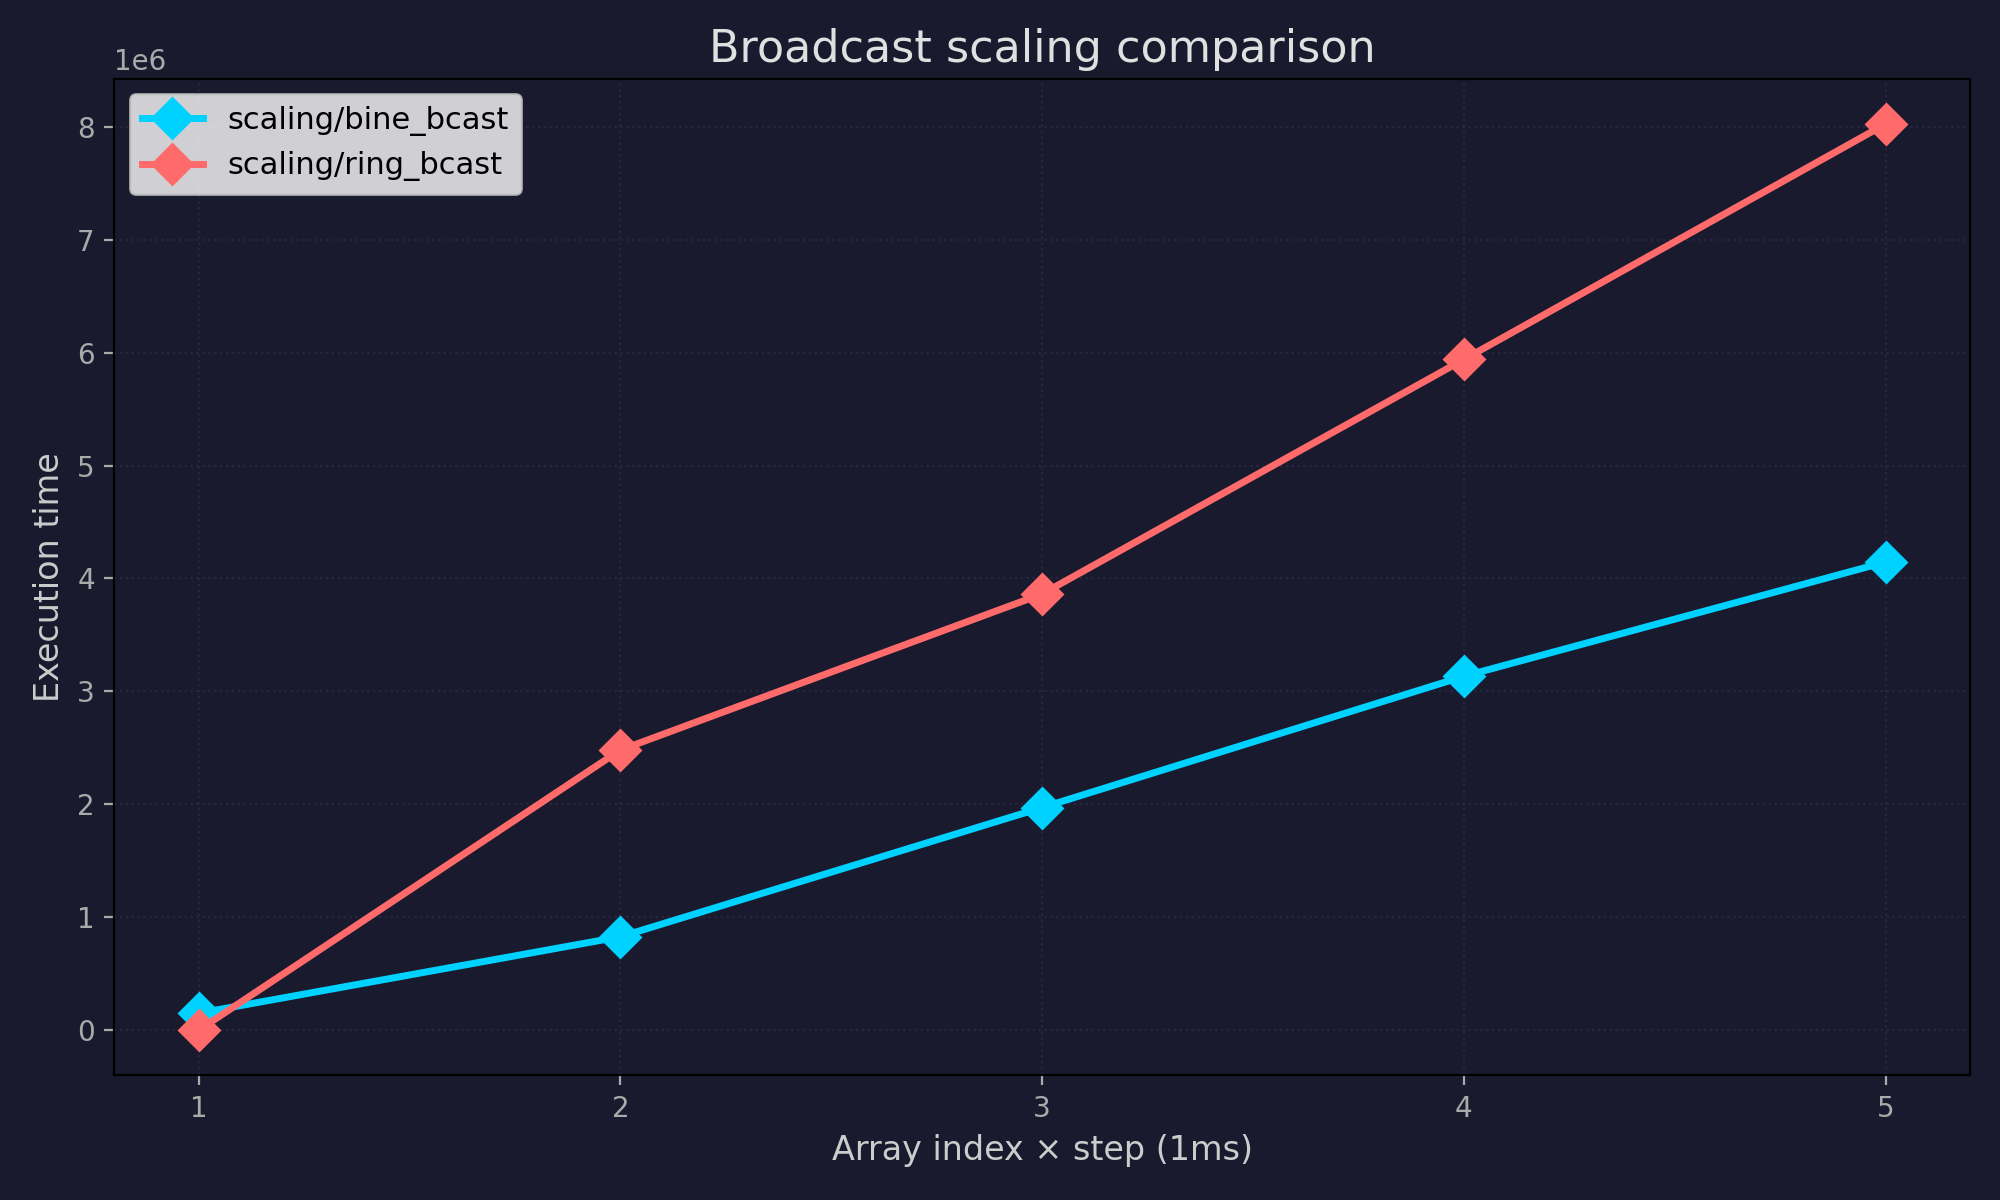
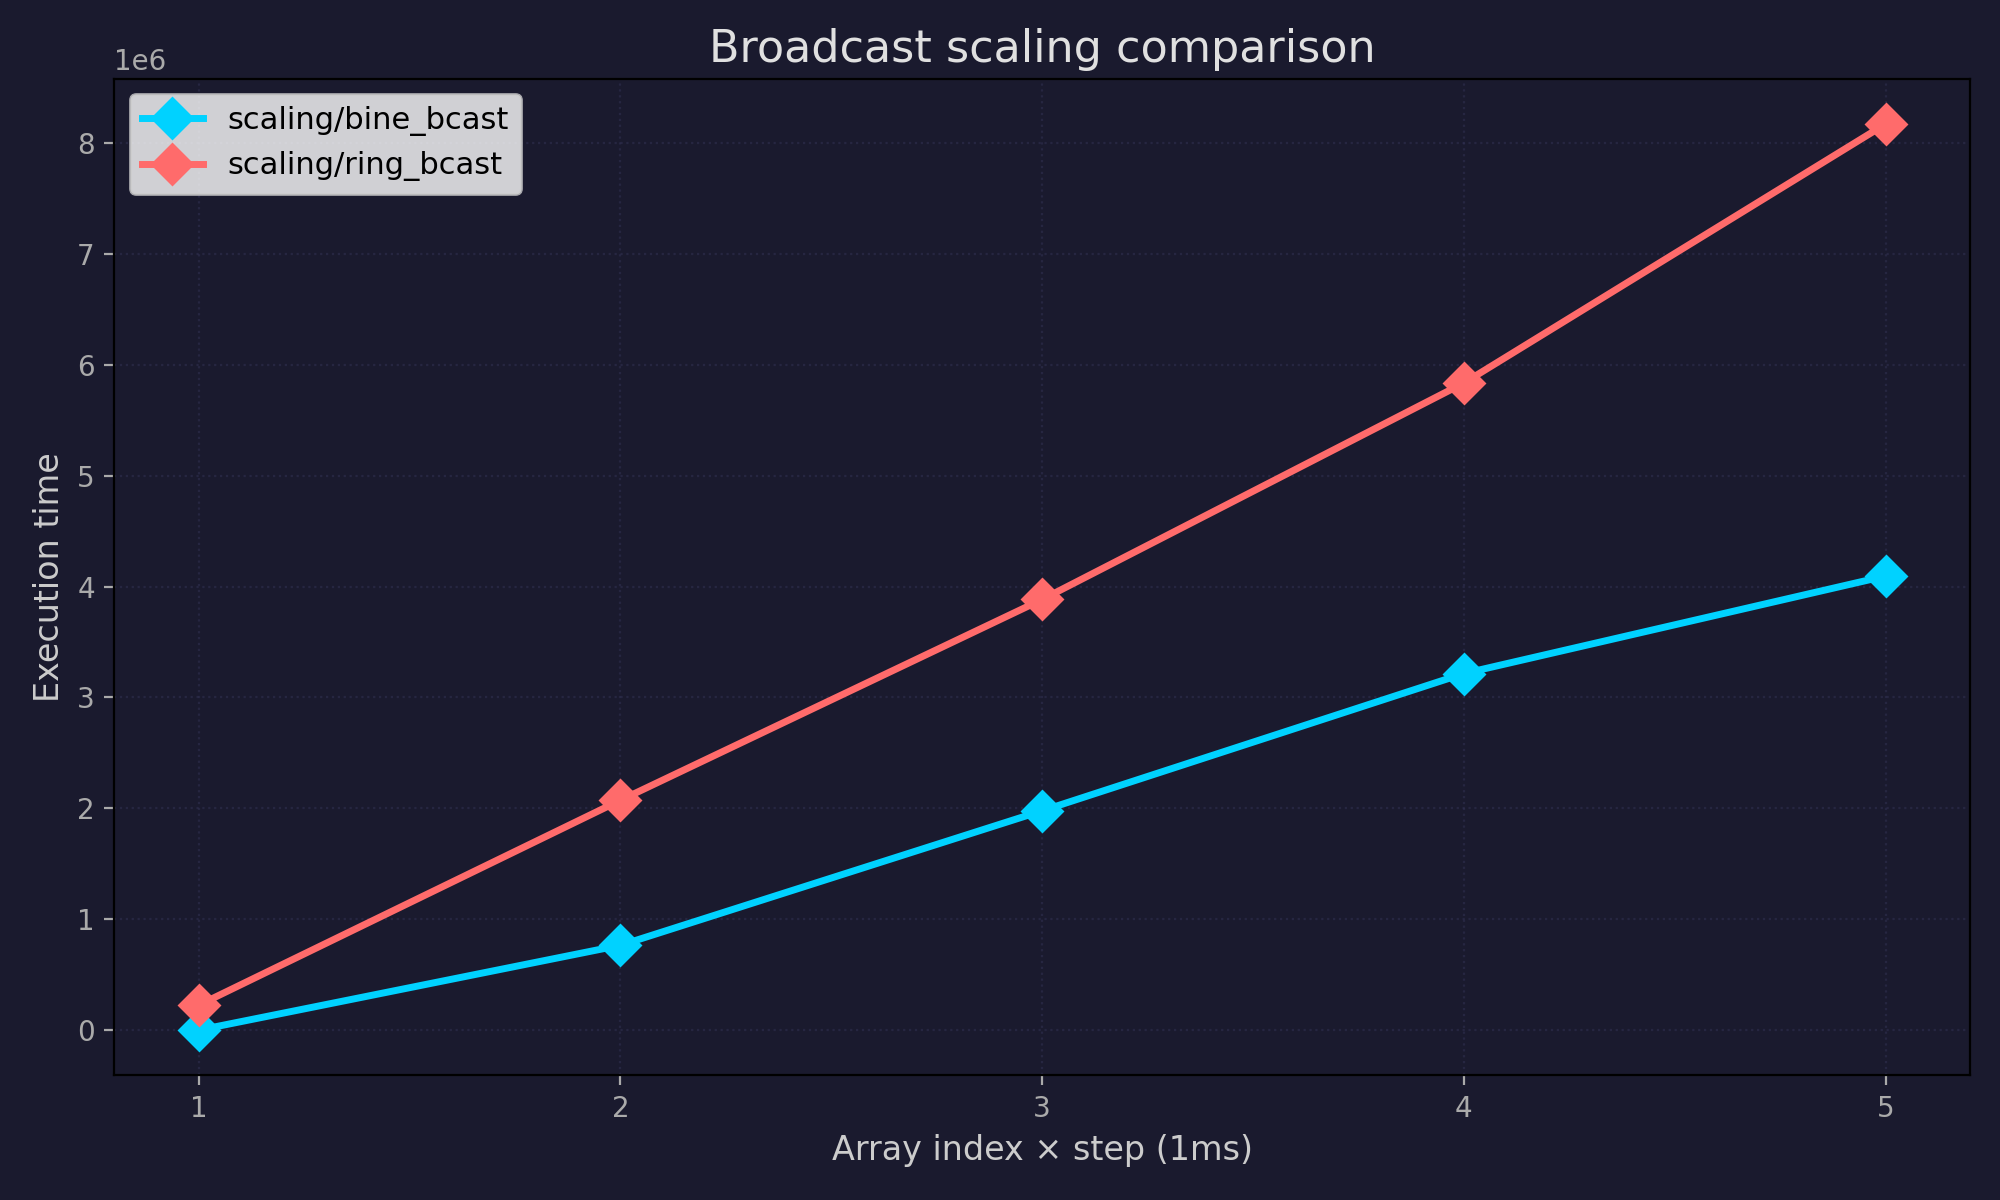
Actual bcast tests

diff --git a/src/scaling/bcast.cpp b/src/scaling/bcast.cpp
@@ -1,0 +1,60 @@
+extern "C" {
+#include "fastest/custom_tests.h"
+}
+
+#include "nccl.h"
+#include <cuda_runtime.h>
+#include <cstdlib>
+
+#define NRANKS 4
+
+static void run_bcast(const char *algo, size_t nbytes) {
+    setenv("NCCL_ALGO", algo, 1);
+    setenv("NCCL_ALLGATHERV_ENABLE", "0", 1);
+
+    ncclComm_t   comms[NRANKS];
+    void        *sendbuf[NRANKS], *recvbuf[NRANKS];
+    cudaStream_t streams[NRANKS];
+    int          devs[NRANKS] = {0, 1, 2, 3};
+
+    for (int i = 0; i < NRANKS; i++) {
+        cudaSetDevice(i);
+        cudaMalloc(&sendbuf[i], nbytes);
+        cudaMalloc(&recvbuf[i], nbytes);
+        cudaStreamCreate(&streams[i]);
+    }
+    ncclCommInitAll(comms, NRANKS, devs);
+
+    ncclGroupStart();
+    for (int i = 0; i < NRANKS; i++)
+        ncclBroadcast(sendbuf[i], recvbuf[i], nbytes, ncclChar, 0, comms[i], streams[i]);
+    ncclGroupEnd();
+
+    for (int i = 0; i < NRANKS; i++) {
+        cudaSetDevice(i);
+        cudaStreamSynchronize(streams[i]);
+    }
+    for (int i = 0; i < NRANKS; i++) {
+        ncclCommDestroy(comms[i]);
+        cudaFree(sendbuf[i]);
+        cudaFree(recvbuf[i]);
+        cudaStreamDestroy(streams[i]);
+    }
+}
+
+#define DEFINE_BCAST_TEST(algo, idx, nbytes)                          \
+FASTEST_CUSTOMTEST_INLINE("scaling/" algo "_bcast/" #idx,             \
+                           FASTEST_TIME_NS, NULL,                     \
+{ run_bcast(algo, nbytes); out->exit_status = FASTEST_SUCCESS; })
+
+DEFINE_BCAST_TEST("BINE", 0, 1024)
+DEFINE_BCAST_TEST("BINE", 1, 16 * 1024)
+DEFINE_BCAST_TEST("BINE", 2, 256 * 1024)
+DEFINE_BCAST_TEST("BINE", 3, 4 * 1024 * 1024)
+DEFINE_BCAST_TEST("BINE", 4, 64 * 1024 * 1024)
+
+DEFINE_BCAST_TEST("RING", 0, 1024)
+DEFINE_BCAST_TEST("RING", 1, 16 * 1024)
+DEFINE_BCAST_TEST("RING", 2, 256 * 1024)
+DEFINE_BCAST_TEST("RING", 3, 4 * 1024 * 1024)
+DEFINE_BCAST_TEST("RING", 4, 64 * 1024 * 1024)

diff --git a/src/standalone/test.cpp b/src/standalone/test.cpp
@@ -1,5 +1,8 @@
+#include <cstddef>
+extern "C" {
 #include "fastest/custom_tests.h"
 #include "fastest/tests.h"
+}
 
 FASTEST_CUSTOMTEST_INLINE("standalone/1", FASTEST_TIME_NS, NULL, {
     out->exit_status |= FASTEST_ERROR_ASSERT;
